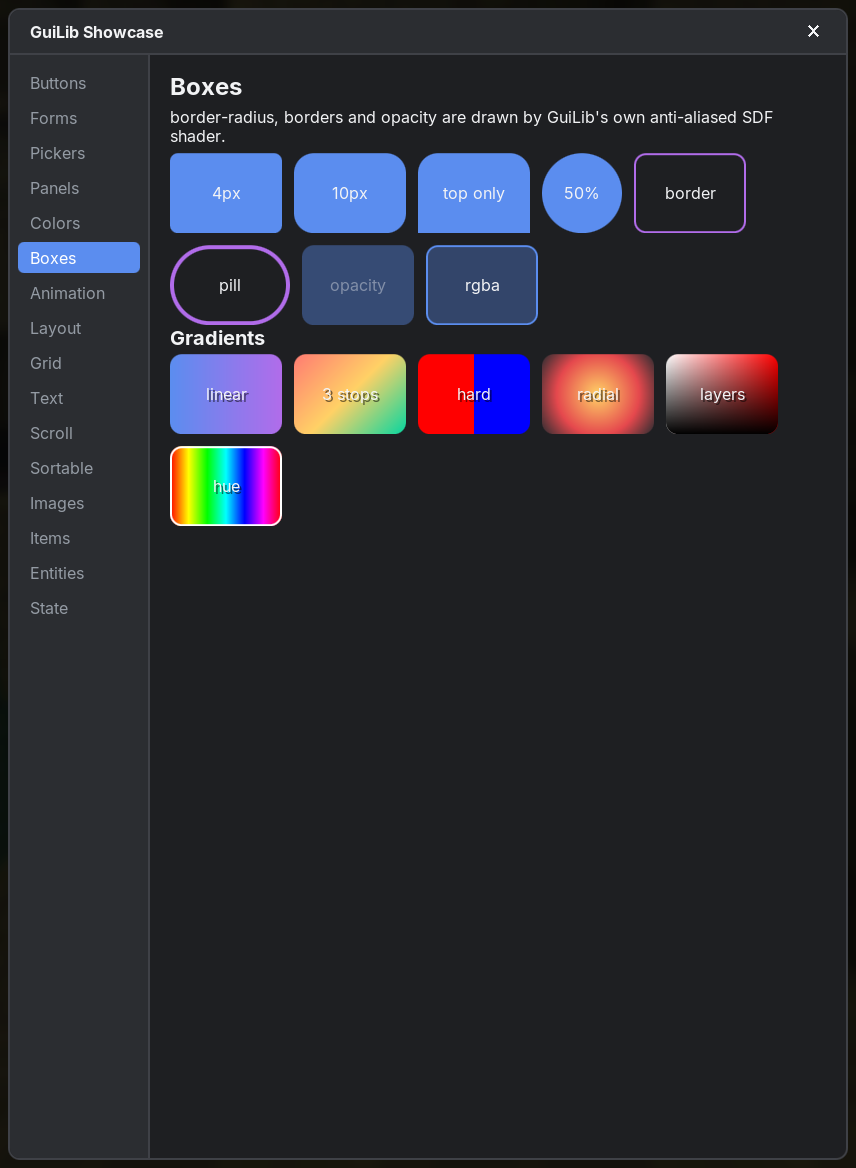
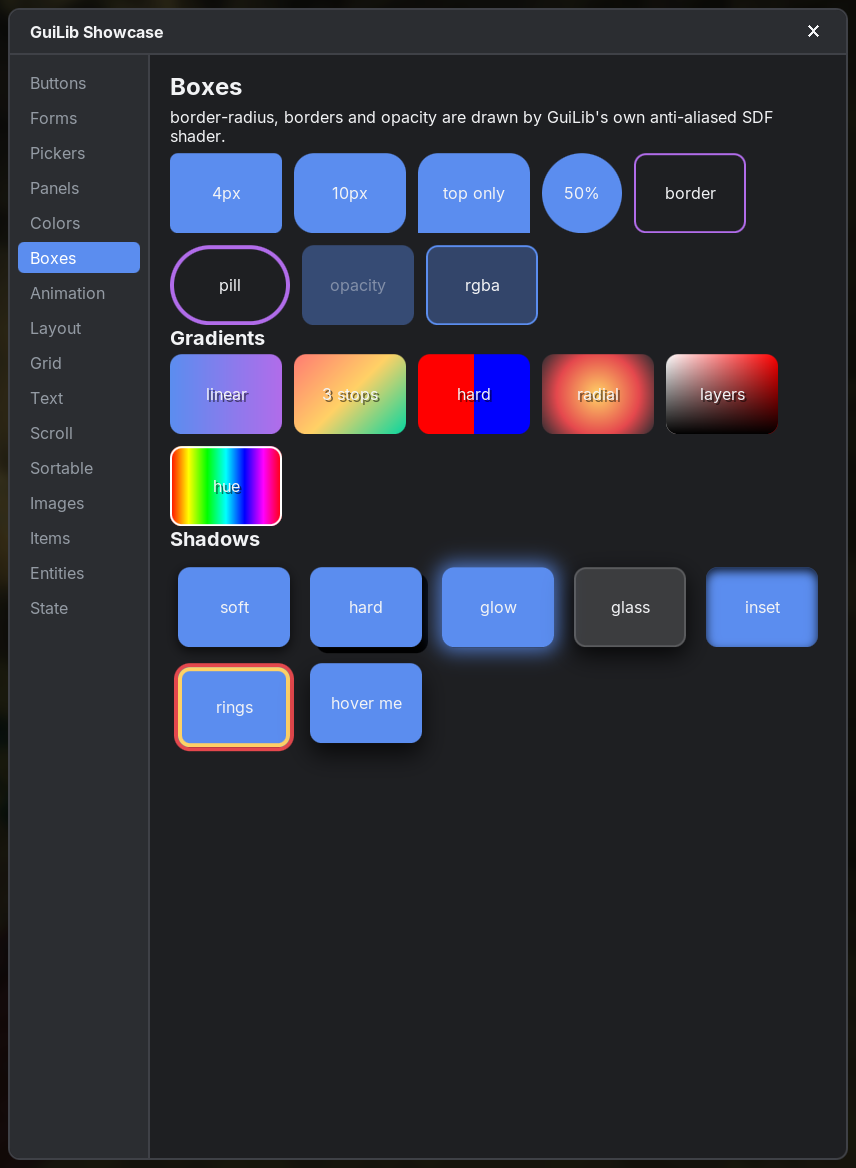
GuiLib docs: box-shadow

Changed region(s): [[0.1822, 0.4315, 0.972, 0.6473], [0.0, 0.2774, 0.0304, 0.4932]]

diff --git a/guilib/css.html b/guilib/css.html
@@ -27,7 +27,7 @@
   <main class="content">
     <article>
       <div class="page-head"><div class="eyebrow">Reference</div><h1>CSS</h1><p class="lead">GuiLib implements the parts of CSS that UIs need, with the real cascade. This page lists every supported selector, value and property.</p></div>
-      <h2 id="where-styles-come-from"><a class="anchor" href="#where-styles-come-from">#</a>Where styles come from</h2><ul><li><code>.css</code> files from resources: <code>GuiLib.open(App, stylesheets = listOf(&quot;mymod:ui/app.css&quot;))</code>.</li><li>Inline <code>style</code> strings: <code>div(style = &quot;width: 20px; color: red&quot;)</code>.</li><li>The built-in user-agent stylesheet <code>assets/guilib/css/ua.css</code> (lowest priority) that styles tags and controls.</li><li>Cascade, specificity, <code>!important</code>, inheritance and <code>inherit</code> / <code>initial</code> / <code>unset</code> work like the web.</li><li>Invalid or unsupported CSS is <strong>skipped with a warning</strong> (<code>file:line:col</code>, &quot;did you mean …&quot;), never a crash.</li></ul><h2 id="selectors"><a class="anchor" href="#selectors">#</a>Selectors</h2><div class="table-wrap"><table><thead><tr><th>Kind</th><th>Supported</th></tr></thead><tbody><tr><td>Simple</td><td><code>*</code> <code>tag</code> <code>.class</code> <code>#id</code> <code>[attr]</code> <code>[attr=v]</code> <code>[attr^=v]</code> <code>[attr$=v]</code> <code>[attr*=v]</code>, compounds like <code>button.primary:hover</code></td></tr><tr><td>Combinators</td><td>descendant <code>a b</code>, child <code>a &gt; b</code>, <code>a + b</code>, <code>a ~ b</code>, lists <code>a, b</code></td></tr><tr><td>State</td><td><code>:hover</code> <code>:active</code> <code>:focus</code> <code>:focus-within</code> <code>:disabled</code> <code>:enabled</code> <code>:checked</code></td></tr><tr><td>Structural</td><td><code>:first-child</code> <code>:last-child</code> <code>:only-child</code> <code>:root</code> <code>:not(…)</code> <code>:nth-child()</code> <code>:nth-last-child()</code> <code>:nth-of-type()</code> <code>:nth-last-of-type()</code> (<code>odd</code>, <code>even</code>, <code>3</code>, <code>2n+1</code>, <code>-n+3</code>)</td></tr><tr><td>At-rules</td><td><code>@keyframes</code></td></tr></tbody></table></div><div class="callout warn">Not supported: pseudo-elements (<code>::before</code>), <code>@media</code>, <code>@import</code>, <code>@font-face</code>, <code>:nth-child(… of S)</code>.</div><h2 id="values"><a class="anchor" href="#values">#</a>Values</h2><div class="table-wrap"><table><thead><tr><th>Kind</th><th>Supported</th></tr></thead><tbody><tr><td>Lengths</td><td><code>px</code> (GUI pixels), <code>%</code>, <code>em</code>, <code>rem</code>, <code>vw</code>, <code>vh</code>, <code>vmin</code>, <code>vmax</code>, unitless <code>0</code></td></tr><tr><td>Colors</td><td><code>#rgb</code> <code>#rgba</code> <code>#rrggbb</code> <code>#rrggbbaa</code>, <code>rgb()</code>/<code>rgba()</code> (comma or space syntax), <code>hsl()</code>/<code>hsla()</code>, all named colors, <code>transparent</code>, <code>currentColor</code></td></tr><tr><td>Variables</td><td><code>--name: value</code> with <code>var(--name, fallback)</code></td></tr><tr><td>Math</td><td><code>calc()</code>, <code>min()</code>, <code>max()</code>, <code>clamp()</code>, e.g. <code>width: calc(100% - 2em)</code></td></tr><tr><td>Angles</td><td><code>deg</code> <code>rad</code> <code>grad</code> <code>turn</code></td></tr></tbody></table></div><h2 id="layout"><a class="anchor" href="#layout">#</a>Box model &amp; layout</h2><div class="table-wrap"><table><thead><tr><th>Group</th><th>Properties</th></tr></thead><tbody><tr><td>Box</td><td><code>width</code> <code>height</code> <code>min-width</code> <code>min-height</code> <code>max-width</code> <code>max-height</code> <code>box-sizing</code> <code>margin(-*)</code> <code>padding(-*)</code></td></tr><tr><td>Border</td><td><code>border</code> <code>border-(top|right|bottom|left)</code> <code>border-width</code> <code>border-style</code> <code>border-color</code> <code>border-*-width/-style/-color</code> <code>border-radius</code> <code>border-*-radius</code></td></tr><tr><td>Display</td><td><code>display</code>: <code>block</code> <code>inline</code> <code>inline-block</code> <code>flex</code> <code>inline-flex</code> <code>grid</code> <code>inline-grid</code> <code>none</code></td></tr><tr><td>Position</td><td><code>position</code>: <code>static</code> <code>relative</code> <code>absolute</code> <code>fixed</code>; <code>top</code> <code>right</code> <code>bottom</code> <code>left</code> <code>inset</code> <code>z-index</code></td></tr><tr><td>Overflow</td><td><code>overflow</code> <code>overflow-x</code> <code>overflow-y</code> (<code>visible</code> <code>hidden</code> <code>auto</code> <code>scroll</code>), <code>scrollbar-width</code> (<code>auto</code> <code>thin</code> <code>none</code>), <code>scrollbar-color: &lt;thumb&gt; &lt;track&gt;</code></td></tr><tr><td>Flexbox</td><td><code>flex</code> <code>flex-direction</code> <code>flex-wrap</code> <code>flex-flow</code> <code>flex-grow</code> <code>flex-shrink</code> <code>flex-basis</code> <code>justify-content</code> <code>align-items</code> <code>align-self</code> <code>place-items</code> <code>gap</code> <code>row-gap</code> <code>column-gap</code> <code>order</code>, auto margins</td></tr><tr><td>Grid</td><td><code>grid-template-columns</code> / <code>-rows</code> (<code>px % fr auto min-content max-content minmax() repeat(n | auto-fill | auto-fit, …)</code>), <code>grid-template-areas</code> <code>grid-area</code> <code>grid-row</code> <code>grid-column</code> <code>grid-*-start/-end</code> (lines, negative lines, <code>span n</code>, area names), <code>grid-auto-rows</code> <code>grid-auto-columns</code> <code>grid-auto-flow</code> (<code>row</code> <code>column</code> <code>dense</code>), <code>justify-items</code> <code>justify-self</code> <code>place-self</code></td></tr></tbody></table></div><figure class="shot"><a href="img/grid.png" target="_blank" rel="noopener"><img src="img/grid.png" alt="CSS grid: fr tracks, spans, template areas and auto-fill" loading="lazy"></a><figcaption>CSS grid: fr tracks, spans, template areas and auto-fill</figcaption></figure><figure class="shot"><a href="img/layout.png" target="_blank" rel="noopener"><img src="img/layout.png" alt="Flexbox and positioning" loading="lazy"></a><figcaption>Flexbox and positioning</figcaption></figure><h2 id="text-visuals"><a class="anchor" href="#text-visuals">#</a>Text &amp; visuals</h2><div class="table-wrap"><table><thead><tr><th>Group</th><th>Properties</th></tr></thead><tbody><tr><td>Text</td><td><code>color</code> <code>font-family</code> <code>font-size</code> <code>font-weight</code> <code>font-style</code> <code>line-height</code> <code>text-align</code> <code>white-space</code> <code>text-overflow</code> <code>text-decoration</code> <code>text-shadow</code></td></tr><tr><td>Background</td><td><code>background</code> <code>background-color</code> <code>background-image</code>: comma list of layers (first on top): <code>url(&quot;modid:path.png&quot;)</code>, <code>linear-gradient(…)</code> (angles, <code>to right</code>, stops with positions, hard stops), <code>radial-gradient(…)</code> (<code>circle</code>/<code>ellipse</code>, size keywords, <code>at &lt;position&gt;</code>). Gradients respect <code>border-radius</code>.</td></tr><tr><td>Visual</td><td><code>opacity</code> <code>visibility</code> <code>object-fit</code></td></tr><tr><td>Interaction</td><td><code>cursor</code> (<code>auto</code> <code>default</code> <code>pointer</code> <code>text</code> <code>not-allowed</code> <code>crosshair</code> <code>move</code> <code>ns-resize</code> <code>ew-resize</code> <code>row-resize</code> <code>col-resize</code> <code>grab</code> <code>grabbing</code>; a drag cursor stays while the left button is held), <code>pointer-events</code>, <code>user-select</code> (parsed only)</td></tr></tbody></table></div><figure class="shot"><a href="img/boxes.png" target="_blank" rel="noopener"><img src="img/boxes.png" alt="Rounded corners, borders, gradients and opacity, drawn by GuiLib&#x27;s own anti-aliased shader" loading="lazy"></a><figcaption>Rounded corners, borders, gradients and opacity, drawn by GuiLib&#x27;s own anti-aliased shader</figcaption></figure><h2 id="animation"><a class="anchor" href="#animation">#</a>Animation</h2><p><code>transition</code> (+ <code>-property</code> <code>-duration</code> <code>-timing-function</code> <code>-delay</code>) and <code>animation</code> (+ <code>-name</code> <code>-duration</code> <code>-timing-function</code> <code>-delay</code> <code>-iteration-count</code> <code>-direction</code> <code>-fill-mode</code> <code>-play-state</code>) with <code>@keyframes</code>. Easing: <code>linear</code> <code>ease</code> <code>ease-in</code> <code>ease-out</code> <code>ease-in-out</code> <code>cubic-bezier()</code> <code>steps()</code>.</p><p>Animatable: colors, lengths (also px ↔ % via calc), numbers (<code>opacity</code>, <code>flex-grow</code>, <code>font-size</code> …), radii, <code>line-height</code>, <code>text-shadow</code>, scrollbar colors, gradient stop colors, <code>visibility</code>, <code>transform</code>, <code>transform-origin</code>. Other values switch at 50 % in keyframes and don&#x27;t transition.</p><div class="code"><button class="copy" type="button" aria-label="Copy code">Copy</button><pre><code class="language-css">.card { transition: background-color 150ms, transform 150ms ease-out; }
+      <h2 id="where-styles-come-from"><a class="anchor" href="#where-styles-come-from">#</a>Where styles come from</h2><ul><li><code>.css</code> files from resources: <code>GuiLib.open(App, stylesheets = listOf(&quot;mymod:ui/app.css&quot;))</code>.</li><li>Inline <code>style</code> strings: <code>div(style = &quot;width: 20px; color: red&quot;)</code>.</li><li>The built-in user-agent stylesheet <code>assets/guilib/css/ua.css</code> (lowest priority) that styles tags and controls.</li><li>Cascade, specificity, <code>!important</code>, inheritance and <code>inherit</code> / <code>initial</code> / <code>unset</code> work like the web.</li><li>Invalid or unsupported CSS is <strong>skipped with a warning</strong> (<code>file:line:col</code>, &quot;did you mean …&quot;), never a crash.</li></ul><h2 id="selectors"><a class="anchor" href="#selectors">#</a>Selectors</h2><div class="table-wrap"><table><thead><tr><th>Kind</th><th>Supported</th></tr></thead><tbody><tr><td>Simple</td><td><code>*</code> <code>tag</code> <code>.class</code> <code>#id</code> <code>[attr]</code> <code>[attr=v]</code> <code>[attr^=v]</code> <code>[attr$=v]</code> <code>[attr*=v]</code>, compounds like <code>button.primary:hover</code></td></tr><tr><td>Combinators</td><td>descendant <code>a b</code>, child <code>a &gt; b</code>, <code>a + b</code>, <code>a ~ b</code>, lists <code>a, b</code></td></tr><tr><td>State</td><td><code>:hover</code> <code>:active</code> <code>:focus</code> <code>:focus-within</code> <code>:disabled</code> <code>:enabled</code> <code>:checked</code></td></tr><tr><td>Structural</td><td><code>:first-child</code> <code>:last-child</code> <code>:only-child</code> <code>:root</code> <code>:not(…)</code> <code>:nth-child()</code> <code>:nth-last-child()</code> <code>:nth-of-type()</code> <code>:nth-last-of-type()</code> (<code>odd</code>, <code>even</code>, <code>3</code>, <code>2n+1</code>, <code>-n+3</code>)</td></tr><tr><td>At-rules</td><td><code>@keyframes</code></td></tr></tbody></table></div><div class="callout warn">Not supported: pseudo-elements (<code>::before</code>), <code>@media</code>, <code>@import</code>, <code>@font-face</code>, <code>:nth-child(… of S)</code>.</div><h2 id="values"><a class="anchor" href="#values">#</a>Values</h2><div class="table-wrap"><table><thead><tr><th>Kind</th><th>Supported</th></tr></thead><tbody><tr><td>Lengths</td><td><code>px</code> (GUI pixels), <code>%</code>, <code>em</code>, <code>rem</code>, <code>vw</code>, <code>vh</code>, <code>vmin</code>, <code>vmax</code>, unitless <code>0</code></td></tr><tr><td>Colors</td><td><code>#rgb</code> <code>#rgba</code> <code>#rrggbb</code> <code>#rrggbbaa</code>, <code>rgb()</code>/<code>rgba()</code> (comma or space syntax), <code>hsl()</code>/<code>hsla()</code>, all named colors, <code>transparent</code>, <code>currentColor</code></td></tr><tr><td>Variables</td><td><code>--name: value</code> with <code>var(--name, fallback)</code></td></tr><tr><td>Math</td><td><code>calc()</code>, <code>min()</code>, <code>max()</code>, <code>clamp()</code>, e.g. <code>width: calc(100% - 2em)</code></td></tr><tr><td>Angles</td><td><code>deg</code> <code>rad</code> <code>grad</code> <code>turn</code></td></tr></tbody></table></div><h2 id="layout"><a class="anchor" href="#layout">#</a>Box model &amp; layout</h2><div class="table-wrap"><table><thead><tr><th>Group</th><th>Properties</th></tr></thead><tbody><tr><td>Box</td><td><code>width</code> <code>height</code> <code>min-width</code> <code>min-height</code> <code>max-width</code> <code>max-height</code> <code>box-sizing</code> <code>margin(-*)</code> <code>padding(-*)</code></td></tr><tr><td>Border</td><td><code>border</code> <code>border-(top|right|bottom|left)</code> <code>border-width</code> <code>border-style</code> <code>border-color</code> <code>border-*-width/-style/-color</code> <code>border-radius</code> <code>border-*-radius</code></td></tr><tr><td>Display</td><td><code>display</code>: <code>block</code> <code>inline</code> <code>inline-block</code> <code>flex</code> <code>inline-flex</code> <code>grid</code> <code>inline-grid</code> <code>none</code></td></tr><tr><td>Position</td><td><code>position</code>: <code>static</code> <code>relative</code> <code>absolute</code> <code>fixed</code>; <code>top</code> <code>right</code> <code>bottom</code> <code>left</code> <code>inset</code> <code>z-index</code></td></tr><tr><td>Overflow</td><td><code>overflow</code> <code>overflow-x</code> <code>overflow-y</code> (<code>visible</code> <code>hidden</code> <code>auto</code> <code>scroll</code>), <code>scrollbar-width</code> (<code>auto</code> <code>thin</code> <code>none</code>), <code>scrollbar-color: &lt;thumb&gt; &lt;track&gt;</code></td></tr><tr><td>Flexbox</td><td><code>flex</code> <code>flex-direction</code> <code>flex-wrap</code> <code>flex-flow</code> <code>flex-grow</code> <code>flex-shrink</code> <code>flex-basis</code> <code>justify-content</code> <code>align-items</code> <code>align-self</code> <code>place-items</code> <code>gap</code> <code>row-gap</code> <code>column-gap</code> <code>order</code>, auto margins</td></tr><tr><td>Grid</td><td><code>grid-template-columns</code> / <code>-rows</code> (<code>px % fr auto min-content max-content minmax() repeat(n | auto-fill | auto-fit, …)</code>), <code>grid-template-areas</code> <code>grid-area</code> <code>grid-row</code> <code>grid-column</code> <code>grid-*-start/-end</code> (lines, negative lines, <code>span n</code>, area names), <code>grid-auto-rows</code> <code>grid-auto-columns</code> <code>grid-auto-flow</code> (<code>row</code> <code>column</code> <code>dense</code>), <code>justify-items</code> <code>justify-self</code> <code>place-self</code></td></tr></tbody></table></div><figure class="shot"><a href="img/grid.png" target="_blank" rel="noopener"><img src="img/grid.png" alt="CSS grid: fr tracks, spans, template areas and auto-fill" loading="lazy"></a><figcaption>CSS grid: fr tracks, spans, template areas and auto-fill</figcaption></figure><figure class="shot"><a href="img/layout.png" target="_blank" rel="noopener"><img src="img/layout.png" alt="Flexbox and positioning" loading="lazy"></a><figcaption>Flexbox and positioning</figcaption></figure><h2 id="text-visuals"><a class="anchor" href="#text-visuals">#</a>Text &amp; visuals</h2><div class="table-wrap"><table><thead><tr><th>Group</th><th>Properties</th></tr></thead><tbody><tr><td>Text</td><td><code>color</code> <code>font-family</code> <code>font-size</code> <code>font-weight</code> <code>font-style</code> <code>line-height</code> <code>text-align</code> <code>white-space</code> <code>text-overflow</code> <code>text-decoration</code> <code>text-shadow</code></td></tr><tr><td>Background</td><td><code>background</code> <code>background-color</code> <code>background-image</code>: comma list of layers (first on top): <code>url(&quot;modid:path.png&quot;)</code>, <code>linear-gradient(…)</code> (angles, <code>to right</code>, stops with positions, hard stops), <code>radial-gradient(…)</code> (<code>circle</code>/<code>ellipse</code>, size keywords, <code>at &lt;position&gt;</code>). Gradients respect <code>border-radius</code>.</td></tr><tr><td>Shadow</td><td><code>box-shadow</code>: <code>none</code> or a comma list of <code>[inset] &lt;x&gt; &lt;y&gt; [&lt;blur&gt; [&lt;spread&gt;]] [&lt;color&gt;]</code> (first on top, color defaults to <code>currentColor</code>). Real Gaussian blur that follows <code>border-radius</code>; outer shadows are never drawn under the box, so translucent backgrounds stay clean. Animatable.</td></tr><tr><td>Visual</td><td><code>opacity</code> <code>visibility</code> <code>object-fit</code></td></tr><tr><td>Interaction</td><td><code>cursor</code> (<code>auto</code> <code>default</code> <code>pointer</code> <code>text</code> <code>not-allowed</code> <code>crosshair</code> <code>move</code> <code>ns-resize</code> <code>ew-resize</code> <code>row-resize</code> <code>col-resize</code> <code>grab</code> <code>grabbing</code>; a drag cursor stays while the left button is held), <code>pointer-events</code>, <code>user-select</code> (parsed only)</td></tr></tbody></table></div><figure class="shot"><a href="img/boxes.png" target="_blank" rel="noopener"><img src="img/boxes.png" alt="Rounded corners, borders, gradients, shadows and opacity, drawn by GuiLib&#x27;s own anti-aliased shader" loading="lazy"></a><figcaption>Rounded corners, borders, gradients, shadows and opacity, drawn by GuiLib&#x27;s own anti-aliased shader</figcaption></figure><h2 id="animation"><a class="anchor" href="#animation">#</a>Animation</h2><p><code>transition</code> (+ <code>-property</code> <code>-duration</code> <code>-timing-function</code> <code>-delay</code>) and <code>animation</code> (+ <code>-name</code> <code>-duration</code> <code>-timing-function</code> <code>-delay</code> <code>-iteration-count</code> <code>-direction</code> <code>-fill-mode</code> <code>-play-state</code>) with <code>@keyframes</code>. Easing: <code>linear</code> <code>ease</code> <code>ease-in</code> <code>ease-out</code> <code>ease-in-out</code> <code>cubic-bezier()</code> <code>steps()</code>.</p><p>Animatable: colors, lengths (also px ↔ % via calc), numbers (<code>opacity</code>, <code>flex-grow</code>, <code>font-size</code> …), radii, <code>line-height</code>, <code>text-shadow</code>, <code>box-shadow</code>, scrollbar colors, gradient stop colors, <code>visibility</code>, <code>transform</code>, <code>transform-origin</code>. Other values switch at 50 % in keyframes and don&#x27;t transition.</p><div class="code"><button class="copy" type="button" aria-label="Copy code">Copy</button><pre><code class="language-css">.card { transition: background-color 150ms, transform 150ms ease-out; }
 .card:hover { background-color: #333; transform: scale(1.05); }
 
 @keyframes spin { to { transform: rotate(360deg); } }

diff --git a/guilib/differences.html b/guilib/differences.html
@@ -27,7 +27,7 @@
   <main class="content">
     <article>
       <div class="page-head"><div class="eyebrow">Guide</div><h1>Differences from the web</h1><p class="lead">GuiLib follows the web wherever it can. These are the places where it doesn&#x27;t. Read this once; it saves time.</p></div>
-      <h2 id="units-defaults"><a class="anchor" href="#units-defaults">#</a>Units &amp; defaults</h2><ul><li><strong><code>px</code> means GUI pixels</strong> (scaled by Minecraft&#x27;s GUI scale). The default <code>font-size</code> is <strong>8px</strong> and <code>1rem = 8px</code>, so a web value like <code>font-size: 14px</code> is large here; typical UI text is 7–10px.</li><li><code>body</code> <strong>is the screen</strong>: always exactly viewport-sized; there is no <code>html</code>; <code>:root</code> matches <code>body</code>.</li><li><code>box-sizing: border-box</code> is the <strong>default</strong> for everything.</li><li><strong>No margin collapsing</strong>: vertical margins add up.</li><li>The default text color is light (<code>#f2f3f5</code>), the default font Inter.</li><li><code>border-width</code> defaults to 1px; like the web, a border without <code>border-style</code> draws nothing.</li></ul><h2 id="api"><a class="anchor" href="#api">#</a>API</h2><ul><li><code>style</code> is a CSS <strong>string</strong>, not an object. Event handlers are Kotlin lambdas (<code>onClick = { e -&gt; … }</code>).</li><li><code>useEffect { }</code> without deps runs <strong>once</strong> (like <code>[]</code>); there is no &quot;run after every render&quot; variant.</li><li><code>onChange</code> on inputs, selects, checkboxes, switches and sliders fires on every change (React behaviour); sliders also have <code>onChangeEnd</code>.</li></ul><h2 id="rendering"><a class="anchor" href="#rendering">#</a>Rendering</h2><ul><li><code>overflow: hidden</code> clips <strong>rectangularly</strong>. With <code>border-radius</code> on the clipping element, child backgrounds that sit exactly in one of its corners (headers, footers, sidebars) are rounded to match; other content is not cut to the curve.</li><li>Per-side borders on a box with <code>border-radius</code> are drawn as straight strips that stop at the rounded corners. Uniform borders are exact.</li><li>Inline elements (<code>span</code>, …) ignore padding, border and background; use <code>display: inline-block</code> for boxes inside text.</li><li>Every positioned element (<code>relative</code> / <code>absolute</code> / <code>fixed</code>) is its own paint layer; <code>z-index</code> orders layers among siblings. Use <code>portal { }</code> for things that must be on top of everything. <code>position: fixed</code> ignores ancestors&#x27; <code>transform</code>.</li><li><code>display: inline-block</code>, <code>img</code> and <code>item</code> sit on the text baseline; <code>vertical-align</code> is not supported.</li><li>Flex items have <code>min-width: auto</code> like the web; for ellipsis inside flex, set <code>min-width: 0</code>.</li></ul><h2 id="text"><a class="anchor" href="#text">#</a>Text</h2><ul><li>Minecraft <code>§</code> codes work in all text. Text inputs show what the user types literally (<code>§</code> included).</li><li>No kerning; <code>text-align: justify</code> behaves like <code>left</code>.</li><li>No right-to-left or complex-script shaping. Characters missing from the font (CJK, emoji, …) fall back to Minecraft&#x27;s font.</li><li>Rotated text is drawn at its unrotated resolution (slightly soft).</li></ul><h2 id="not-supported-yet"><a class="anchor" href="#not-supported-yet">#</a>Not supported (yet)</h2><ul><li>3D transforms (a <code>transform</code> containing them is ignored), <code>box-shadow</code>, <code>repeating-*-gradient</code>, <code>conic-gradient</code>.</li><li><code>@media</code>, <code>@import</code>, <code>@font-face</code> (register fonts with <code>FontManager</code>), pseudo-elements (<code>::before</code>), <code>:nth-child(… of S)</code>.</li><li><code>float</code>, <code>align-content</code>, <code>vertical-align</code>, <code>letter-spacing</code>, subgrid, named grid lines. Grid <code>auto-fit</code> behaves like <code>auto-fill</code>.</li><li>Images are resource locations (PNG, SVG or GIF), no URLs.</li></ul>
+      <h2 id="units-defaults"><a class="anchor" href="#units-defaults">#</a>Units &amp; defaults</h2><ul><li><strong><code>px</code> means GUI pixels</strong> (scaled by Minecraft&#x27;s GUI scale). The default <code>font-size</code> is <strong>8px</strong> and <code>1rem = 8px</code>, so a web value like <code>font-size: 14px</code> is large here; typical UI text is 7–10px.</li><li><code>body</code> <strong>is the screen</strong>: always exactly viewport-sized; there is no <code>html</code>; <code>:root</code> matches <code>body</code>.</li><li><code>box-sizing: border-box</code> is the <strong>default</strong> for everything.</li><li><strong>No margin collapsing</strong>: vertical margins add up.</li><li>The default text color is light (<code>#f2f3f5</code>), the default font Inter.</li><li><code>border-width</code> defaults to 1px; like the web, a border without <code>border-style</code> draws nothing.</li></ul><h2 id="api"><a class="anchor" href="#api">#</a>API</h2><ul><li><code>style</code> is a CSS <strong>string</strong>, not an object. Event handlers are Kotlin lambdas (<code>onClick = { e -&gt; … }</code>).</li><li><code>useEffect { }</code> without deps runs <strong>once</strong> (like <code>[]</code>); there is no &quot;run after every render&quot; variant.</li><li><code>onChange</code> on inputs, selects, checkboxes, switches and sliders fires on every change (React behaviour); sliders also have <code>onChangeEnd</code>.</li></ul><h2 id="rendering"><a class="anchor" href="#rendering">#</a>Rendering</h2><ul><li><code>overflow: hidden</code> clips <strong>rectangularly</strong>. With <code>border-radius</code> on the clipping element, child backgrounds that sit exactly in one of its corners (headers, footers, sidebars) are rounded to match; other content is not cut to the curve.</li><li>Per-side borders on a box with <code>border-radius</code> are drawn as straight strips that stop at the rounded corners. Uniform borders are exact.</li><li>Inline elements (<code>span</code>, …) ignore padding, border and background; use <code>display: inline-block</code> for boxes inside text.</li><li>Every positioned element (<code>relative</code> / <code>absolute</code> / <code>fixed</code>) is its own paint layer; <code>z-index</code> orders layers among siblings. Use <code>portal { }</code> for things that must be on top of everything. <code>position: fixed</code> ignores ancestors&#x27; <code>transform</code>.</li><li><code>display: inline-block</code>, <code>img</code> and <code>item</code> sit on the text baseline; <code>vertical-align</code> is not supported.</li><li>Flex items have <code>min-width: auto</code> like the web; for ellipsis inside flex, set <code>min-width: 0</code>.</li></ul><h2 id="text"><a class="anchor" href="#text">#</a>Text</h2><ul><li>Minecraft <code>§</code> codes work in all text. Text inputs show what the user types literally (<code>§</code> included).</li><li>No kerning; <code>text-align: justify</code> behaves like <code>left</code>.</li><li>No right-to-left or complex-script shaping. Characters missing from the font (CJK, emoji, …) fall back to Minecraft&#x27;s font.</li><li>Rotated text is drawn at its unrotated resolution (slightly soft).</li></ul><h2 id="not-supported-yet"><a class="anchor" href="#not-supported-yet">#</a>Not supported (yet)</h2><ul><li>3D transforms (a <code>transform</code> containing them is ignored), <code>repeating-*-gradient</code>, <code>conic-gradient</code>.</li><li><code>@media</code>, <code>@import</code>, <code>@font-face</code> (register fonts with <code>FontManager</code>), pseudo-elements (<code>::before</code>), <code>:nth-child(… of S)</code>.</li><li><code>float</code>, <code>align-content</code>, <code>vertical-align</code>, <code>letter-spacing</code>, subgrid, named grid lines. Grid <code>auto-fit</code> behaves like <code>auto-fill</code>.</li><li>Images are resource locations (PNG, SVG or GIF), no URLs.</li></ul>
       <nav class="pager"><a class="prev" href="components.html"><span>Previous</span>Components &amp; hooks</a><a class="next" href="recipes.html"><span>Next</span>Recipes</a></nav>
     </article>
     <footer class="footer">GuiLib 0.3.0 · Minecraft 26.1.2 / 26.2 (Fabric) · LGPL-3.0 · Screenshots taken in-game at GUI scale 2.</footer>

diff --git a/docs-src/pages.py b/docs-src/pages.py
@@ -882,15 +882,16 @@ css = Page("css", "CSS", "Reference", (
     raw(table(["Group", "Properties"], [
         ["Text", "`color` `font-family` `font-size` `font-weight` `font-style` `line-height` `text-align` `white-space` `text-overflow` `text-decoration` `text-shadow`"],
         ["Background", "`background` `background-color` `background-image`: comma list of layers (first on top): `url(\"modid:path.png\")`, `linear-gradient(…)` (angles, `to right`, stops with positions, hard stops), `radial-gradient(…)` (`circle`/`ellipse`, size keywords, `at <position>`). Gradients respect `border-radius`."],
+        ["Shadow", "`box-shadow`: `none` or a comma list of `[inset] <x> <y> [<blur> [<spread>]] [<color>]` (first on top, color defaults to `currentColor`). Real Gaussian blur that follows `border-radius`; outer shadows are never drawn under the box, so translucent backgrounds stay clean. Animatable."],
         ["Visual", "`opacity` `visibility` `object-fit`"],
         ["Interaction", "`cursor` (`auto` `default` `pointer` `text` `not-allowed` `crosshair` `move` `ns-resize` `ew-resize` `row-resize` `col-resize` `grab` `grabbing`; a drag cursor stays while the left button is held), `pointer-events`, `user-select` (parsed only)"],
-    ]), shot("boxes.png", "Rounded corners, borders, gradients and opacity, drawn by GuiLib's own anti-aliased shader")),
+    ]), shot("boxes.png", "Rounded corners, borders, gradients, shadows and opacity, drawn by GuiLib's own anti-aliased shader")),
     h2("Animation"),
     raw(p("`transition` (+ `-property` `-duration` `-timing-function` `-delay`) and `animation` (+ `-name` `-duration` "
           "`-timing-function` `-delay` `-iteration-count` `-direction` `-fill-mode` `-play-state`) with `@keyframes`. "
           "Easing: `linear` `ease` `ease-in` `ease-out` `ease-in-out` `cubic-bezier()` `steps()`."),
         p("Animatable: colors, lengths (also px ↔ % via calc), numbers (`opacity`, `flex-grow`, `font-size` …), radii, "
-          "`line-height`, `text-shadow`, scrollbar colors, gradient stop colors, `visibility`, `transform`, "
+          "`line-height`, `text-shadow`, `box-shadow`, scrollbar colors, gradient stop colors, `visibility`, `transform`, "
           "`transform-origin`. Other values switch at 50 % in keyframes and don't transition."),
         code("""
 .card { transition: background-color 150ms, transform 150ms ease-out; }
@@ -958,7 +959,7 @@ differences = Page("differences", "Differences from the web", "Guide", (
            "No right-to-left or complex-script shaping. Characters missing from the font (CJK, emoji, …) fall back to Minecraft's font.",
            "Rotated text is drawn at its unrotated resolution (slightly soft).")),
     h2("Not supported (yet)"),
-    raw(ul("3D transforms (a `transform` containing them is ignored), `box-shadow`, `repeating-*-gradient`, `conic-gradient`.",
+    raw(ul("3D transforms (a `transform` containing them is ignored), `repeating-*-gradient`, `conic-gradient`.",
            "`@media`, `@import`, `@font-face` (register fonts with `FontManager`), pseudo-elements (`::before`), `:nth-child(… of S)`.",
            "`float`, `align-content`, `vertical-align`, `letter-spacing`, subgrid, named grid lines. Grid `auto-fit` behaves like `auto-fill`.",
            "Images are resource locations (PNG, SVG or GIF), no URLs.")),
